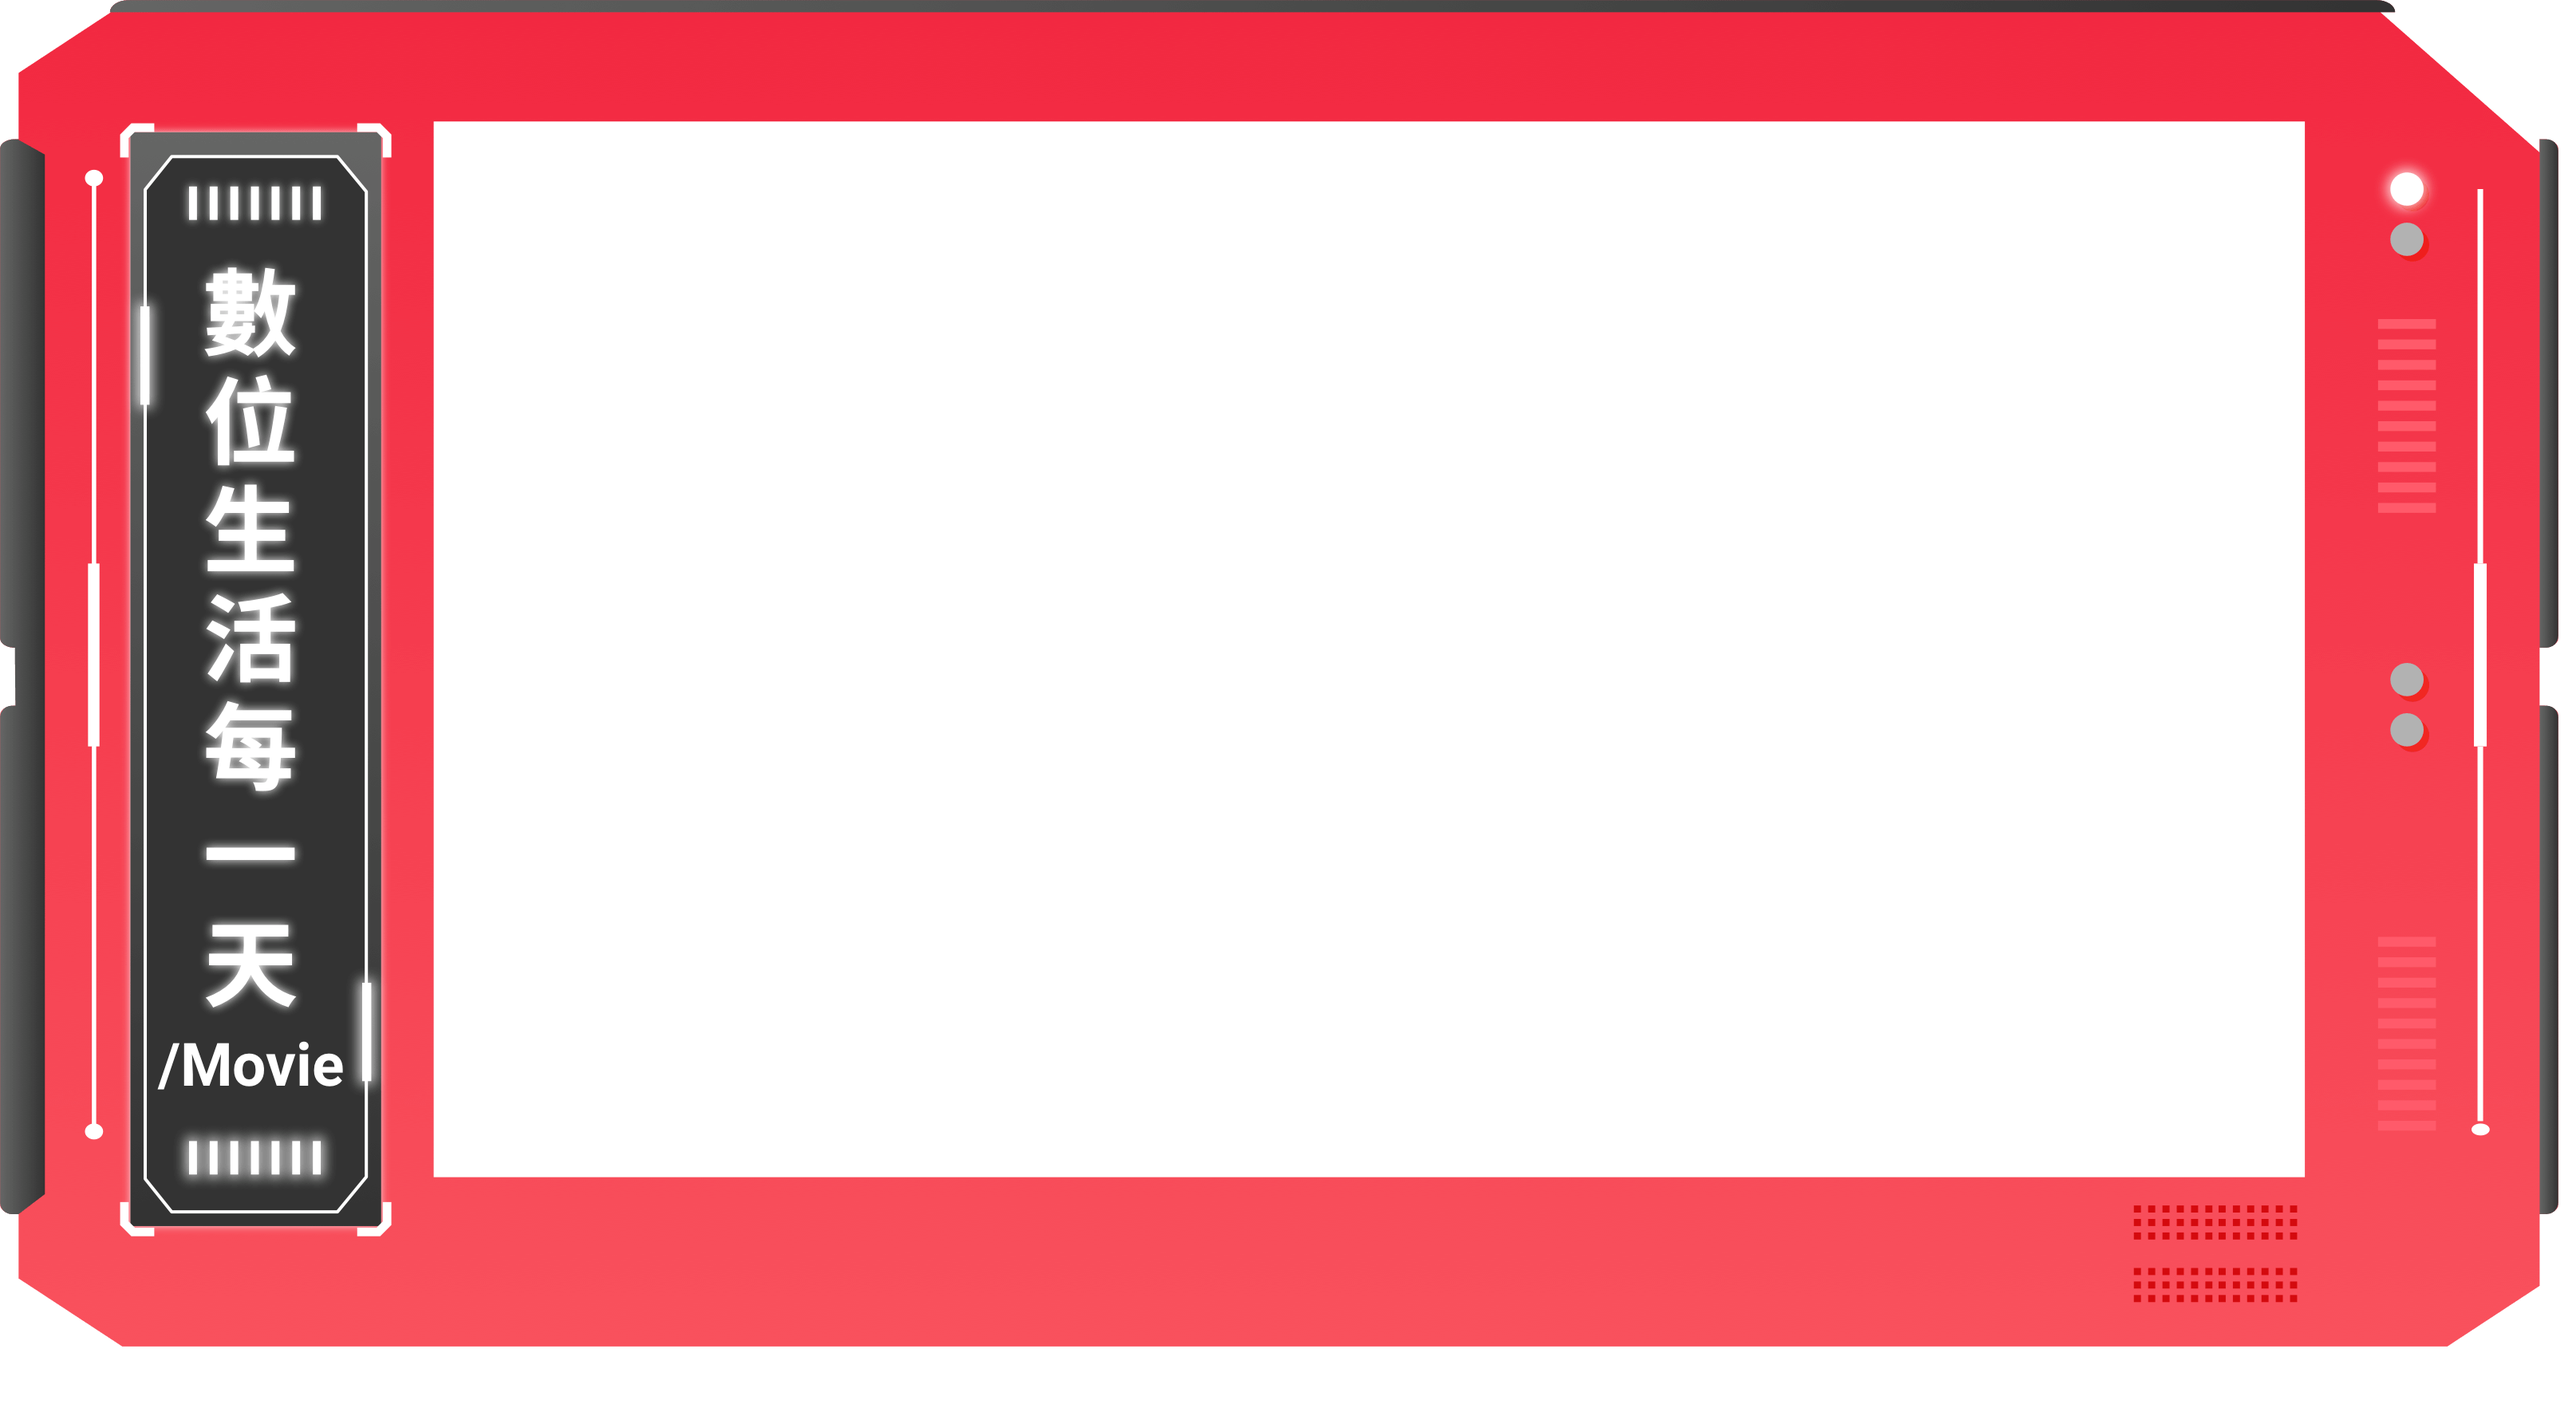
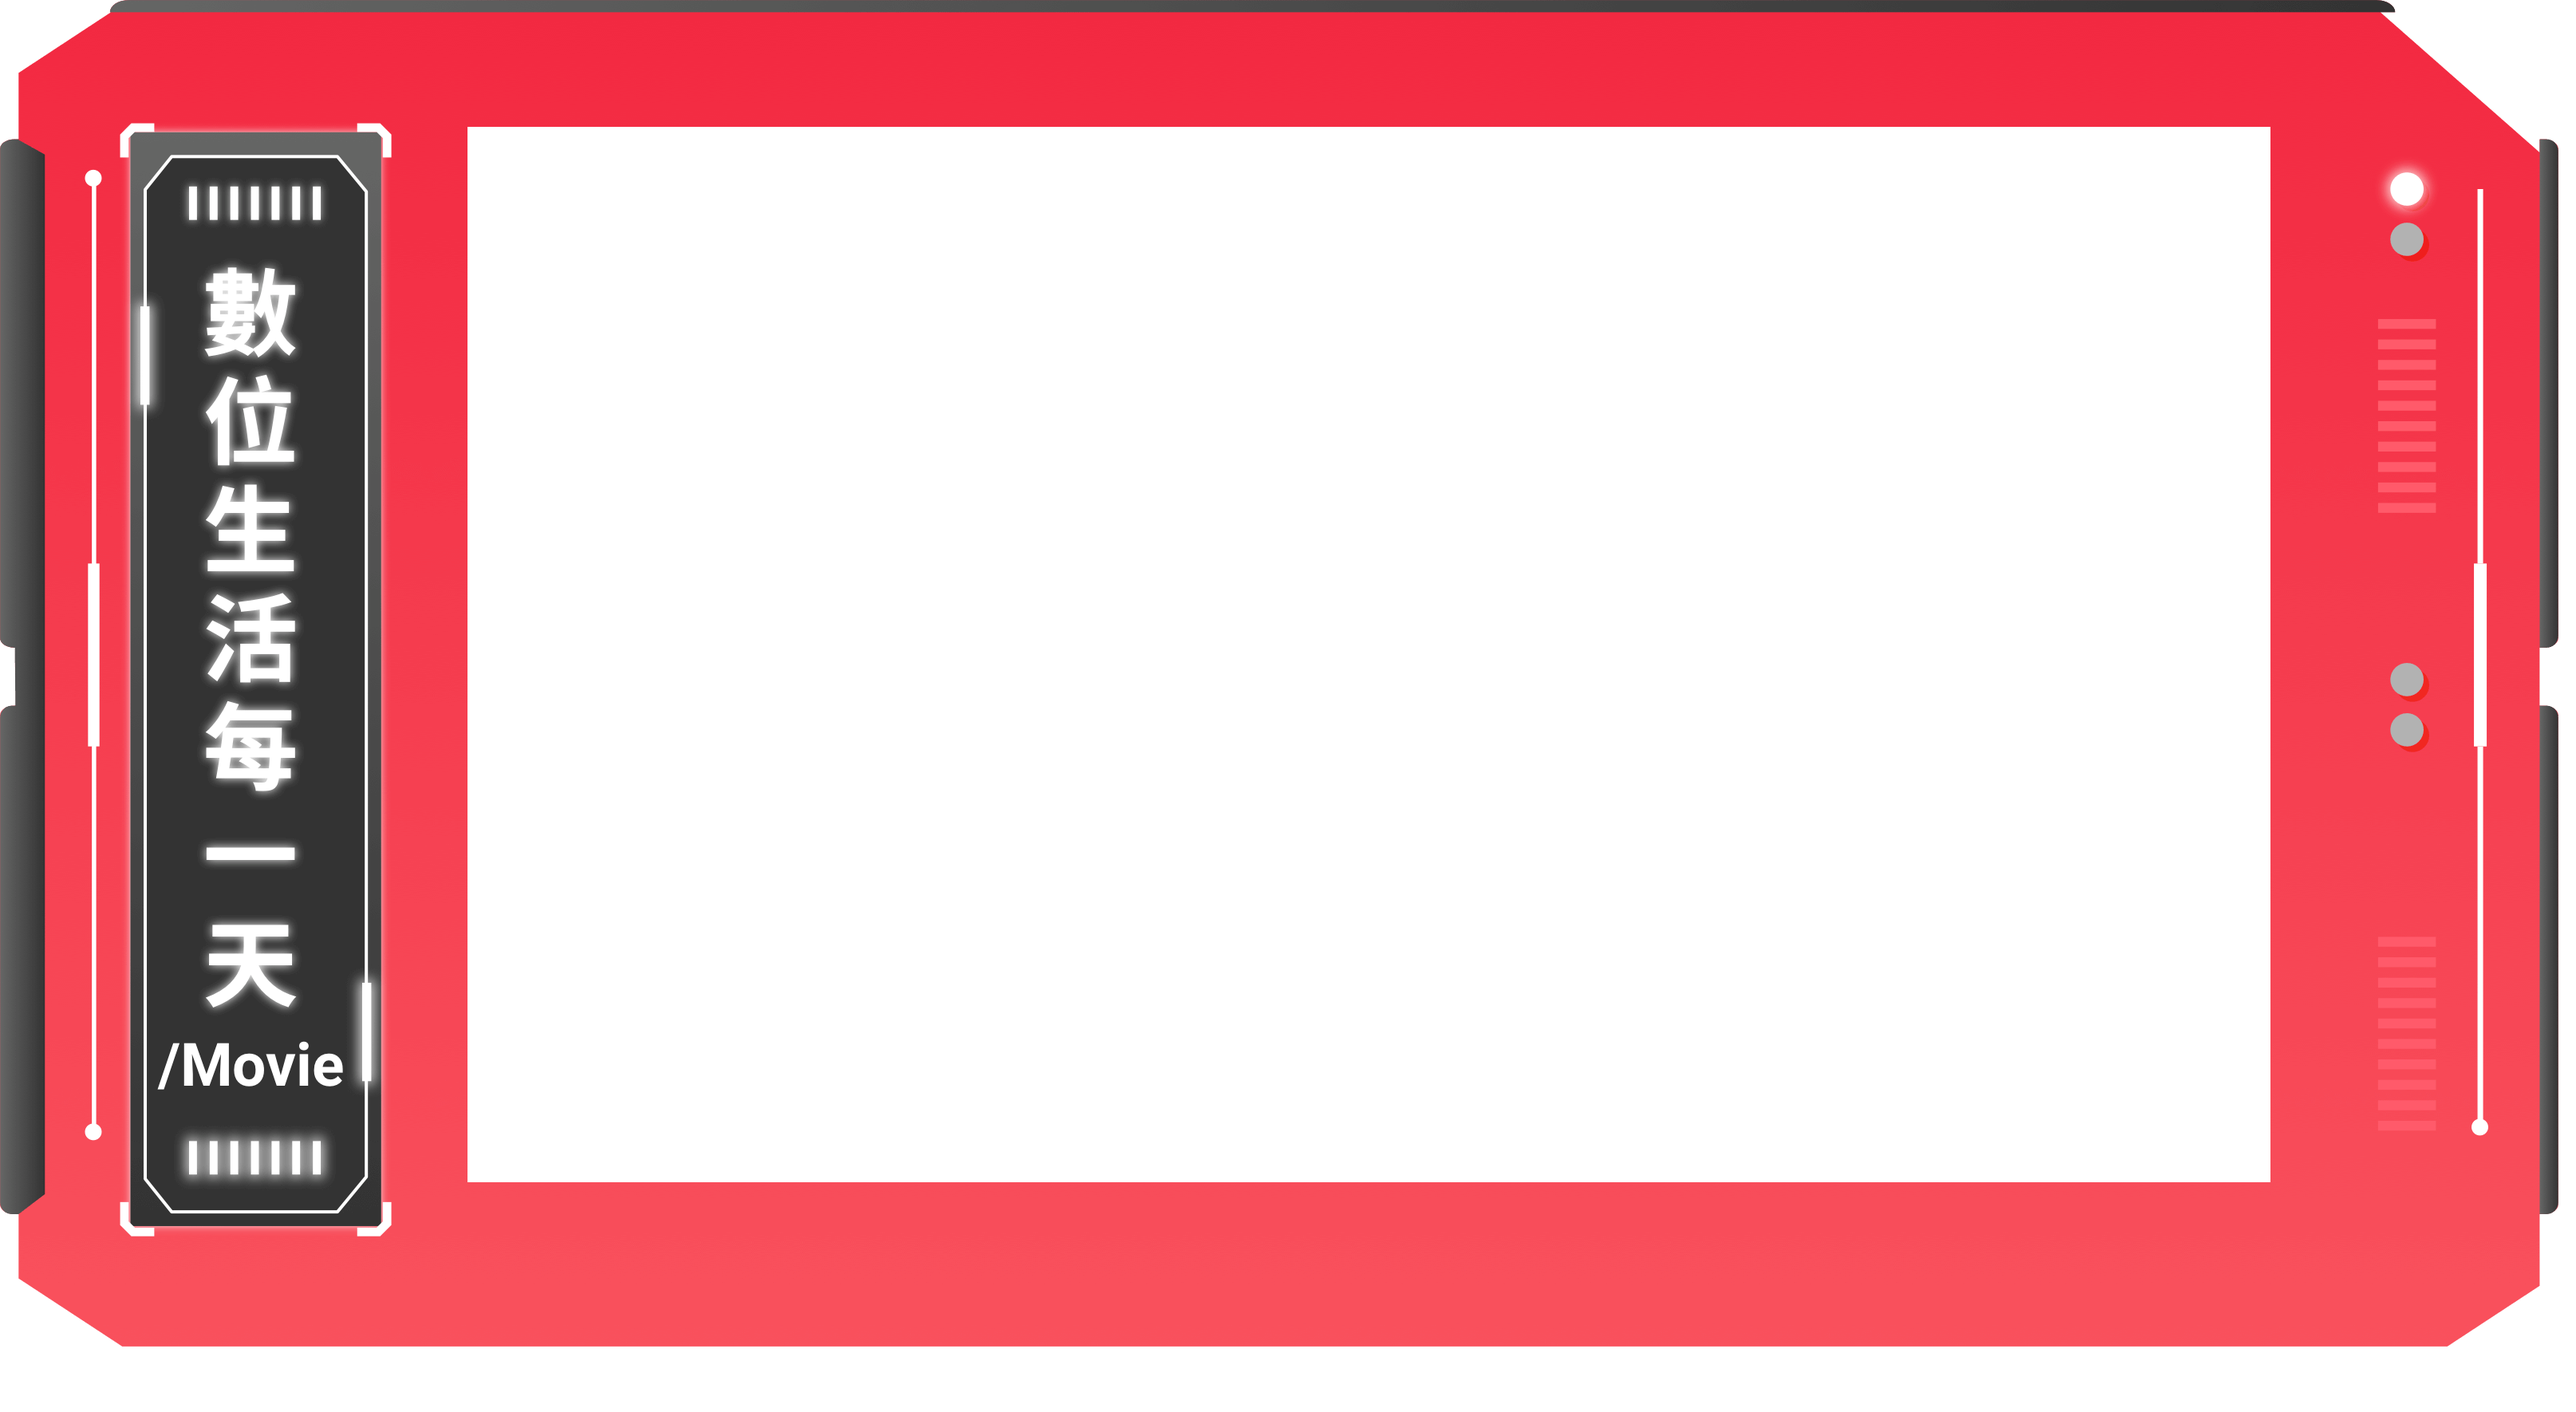
feat: index pop up add video title

Changed region(s): [[0.1548, 0.0621, 0.8981, 0.9322]]

diff --git a/index.html b/index.html
@@ -113,13 +113,19 @@
         <button type="button" class="close index__video-popup__close" data-dismiss="modal" aria-label="Close">
           <img src="./images/index/close.svg" alt="關閉">
         </button>
-        <video id="film-one" class="index__video-popup__video" width="2269" height="1276.3" controls disablePictureInPicture controlsList="nodownload" loop>
+        <div class="index__video-popup__video-title-section">
+          <span class="index__video-popup__video-icon"></span>
+          <span class="index__video-popup__video-title">
+            公司簡介介紹
+          </span>
+        </div>
+        <video id="film-one" class="index__video-popup__video" controls disablePictureInPicture controlsList="nodownload" loop>
           <source src="./video/mov_bbb.mp4" type="video/mp4" style="width: 100%; height: 100%;">
         </video>
-        <video id="film-two" class="index__video-popup__video" width="2269" height="1276.3" controls disablePictureInPicture controlsList="nodownload" loop>
+        <video id="film-two" class="index__video-popup__video" controls disablePictureInPicture controlsList="nodownload" loop>
           <source src="./video/trailer.mp4" type="video/mp4" style="width: 100%; height: 100%;">
         </video>
-        <video id="film-three" class="index__video-popup__video" width="2269" height="1276.3" controls disablePictureInPicture controlsList="nodownload" loop>
+        <video id="film-three" class="index__video-popup__video" controls disablePictureInPicture controlsList="nodownload" loop>
           <source src="./video/View_From_A_Blue_Moon_Trailer-576p.mp4" type="video/mp4" style="width: 100%; height: 100%;">
         </video>
         <div class="index__video-popup__richart"></div>
@@ -127,6 +133,7 @@
           <button class="p-0 video-btn-one video-btn-one__active"></button>
           <button class="p-0 video-btn-two"></button>
           <button class="p-0 video-btn-three"></button>
+          <button class="p-0 video-btn-list"></button>
         </div>
       </div>
     </div>

diff --git a/css/all.css b/css/all.css
@@ -770,12 +770,44 @@ html, body {
   border: none;
 }
 
+.index__video-popup__video-title-section {
+  position: absolute;
+  top: 6.95vh;
+  left: 15.24vw;
+  width: 58.94vw;
+  height: 6.019vh;
+  background-color: black;
+  color: white;
+  display: -webkit-box;
+  display: -ms-flexbox;
+  display: flex;
+  -webkit-box-align: center;
+      -ms-flex-align: center;
+          align-items: center;
+  padding-left: 1.3021vw;
+  z-index: 2;
+}
+
+.index__video-popup__video-icon {
+  width: 0;
+  height: 0;
+  border-style: solid;
+  border-width: 0.651vw 0 0.651vw 1.128vw;
+  margin-right: 1.042vw;
+  border-color: transparent transparent transparent white;
+}
+
+.index__video-popup__video-title {
+  font-size: 1.5625vw;
+}
+
 .index__video-popup__video {
   position: absolute;
-  top: 8.34vh;
-  left: 15.24vw;
-  width: 59.09vw;
-  height: 59.09vh;
+  top: 10.19vh;
+  left: 15.625vw;
+  width: 58.05vw;
+  height: 57.32vh;
+  z-index: 1;
 }
 
 .index__video-popup #film-two, .index__video-popup #film-three {
@@ -851,6 +883,10 @@ html, body {
 
 .index__video-popup__button-group .video-btn-three__active {
   background-image: url("../images/index/videoBtn-active.svg");
+}
+
+.index__video-popup__button-group .video-btn-list {
+  background-image: url("../images/index/video-btn-list.svg");
 }
 
 .index__video-popup__upline {

diff --git a/scss/_index.scss b/scss/_index.scss
@@ -460,12 +460,37 @@
       background-color: transparent;
       border: none;
     }
+    &__video-title-section {
+      position: absolute;
+      top: 6.95vh;
+      left: 15.24vw;
+      width: 58.94vw;
+      height: 6.019vh;
+      background-color: black;
+      color: white;
+      display: flex;
+      align-items: center;
+      padding-left: 1.3021vw;
+      z-index: 2;
+    }
+    &__video-icon {
+      width: 0;
+      height: 0;
+      border-style: solid;
+      border-width: 0.651vw 0 0.651vw 1.128vw;
+      margin-right: 1.042vw;
+      border-color: transparent transparent transparent white
+    }
+    &__video-title {
+      font-size: 1.5625vw;
+    }
     &__video {
       position: absolute;
-      top: 8.34vh;
-      left: 15.24vw;
-      width: 59.09vw;
-      height: 59.09vh;
+      top: 10.19vh;
+      left: 15.625vw;
+      width: 58.05vw;
+      height: 57.32vh;
+      z-index: 1;
     }
     #film-two, #film-three {
       display: none;
@@ -527,6 +552,9 @@
         &__active {
           background-image: url('../images/index/videoBtn-active.svg');
         }
+      }
+      .video-btn-list {
+        background-image: url('../images/index/video-btn-list.svg');
       }
     }
     &__upline {

diff --git a/js/all.js b/js/all.js
@@ -43,10 +43,10 @@ function showProtect () {
 
 function resetTimer () {
   clearTimeout(time)
-  time = setTimeout(showProtect, 20000)
+  time = setTimeout(showProtect, 200000)
 }
 
-resetTimer()
+// resetTimer()
 
 function removeProtect () {
   $('#index').css('display', 'flex')
